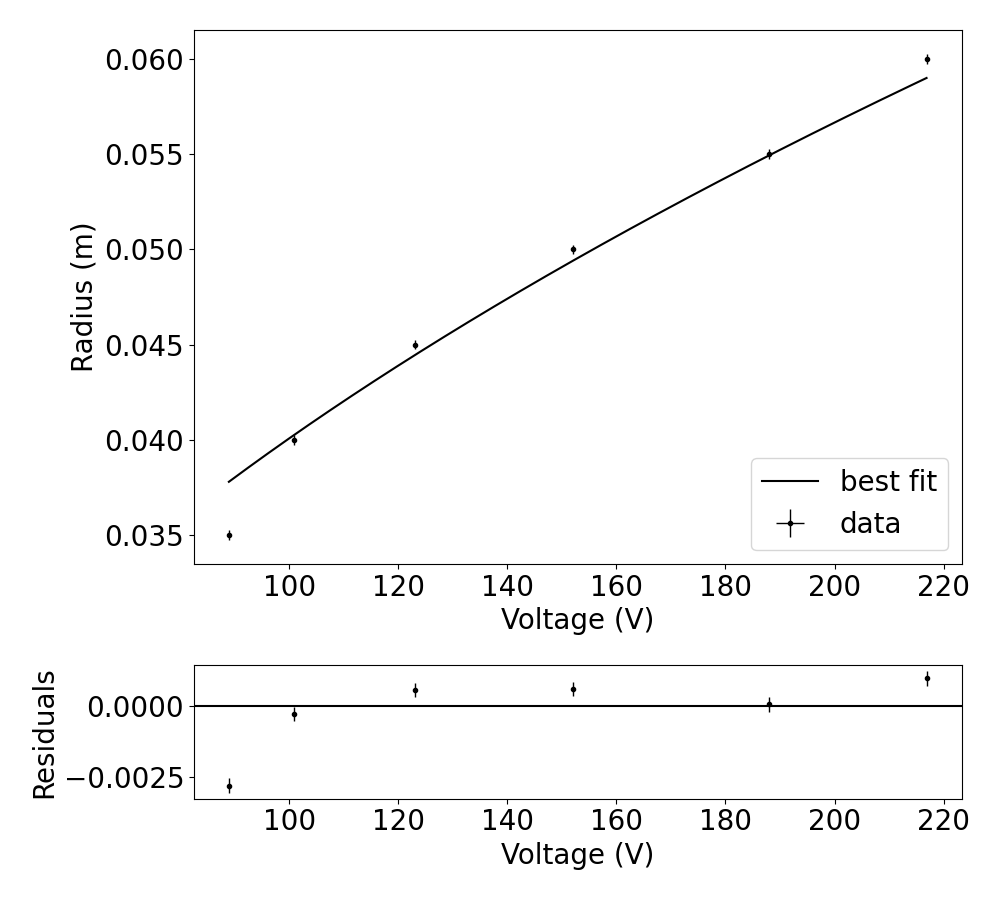
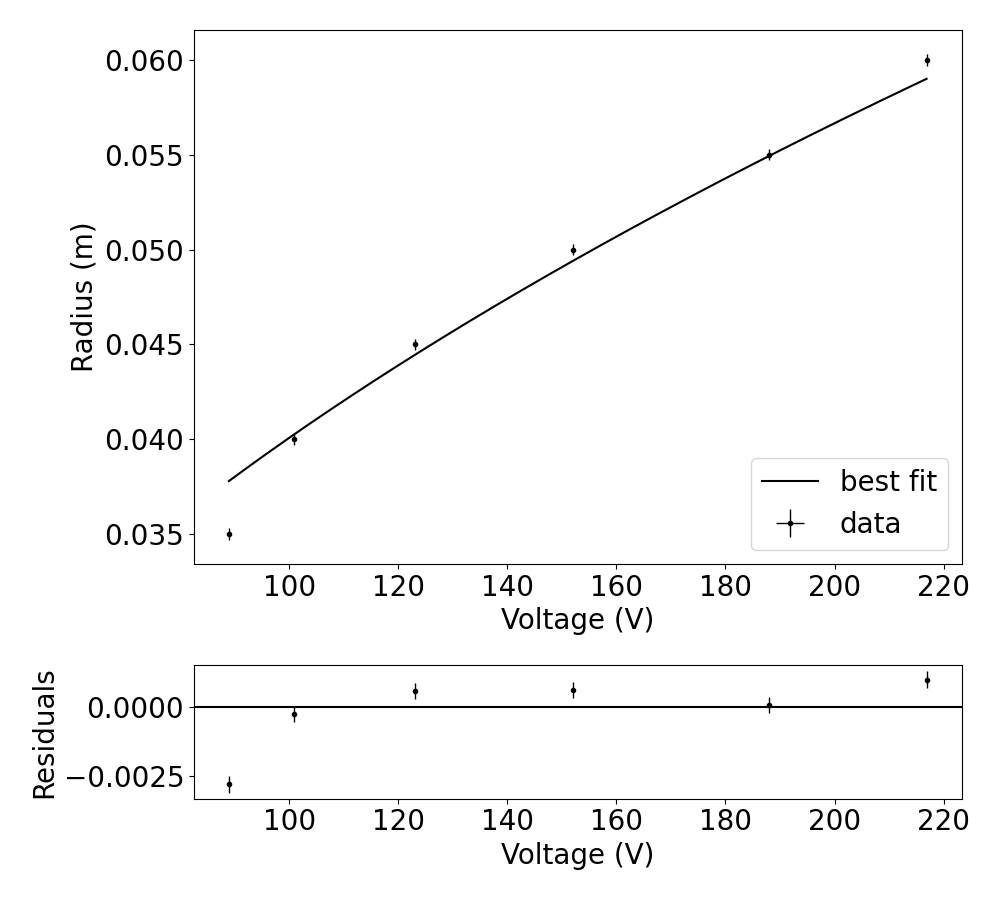
almost there

diff --git a/lab5-charge-to-mass/ratio_calc.py b/lab5-charge-to-mass/ratio_calc.py
@@ -1,37 +1,63 @@
 import math
-
 import tools as tl
 import fit_black_box as bb
 import numpy as np
 
-mue_0 = 4 * math.pi * 10**-7
-R = 0.326/2
-R_err = 0.005/2
+# Constants and measured values
+mue_0 = 4 * math.pi * 10**-7         
+R = 0.326/2                          
+R_err = 0.005/2                      
 n = 130
 
-b_e,b_e_unc = 6.85323006340271*10**-5, 1.2710535253099034*10**-5
+# Field offset values from extra_field analysis
+b_e, b_e_unc = 7.279481489311506e-5, 1.313424340798893e-5 
 k = 1/math.sqrt(2) * (4/5)**(3/2) * mue_0 * n / R
-k_err = tl.error_mult(1/math.sqrt(2), (4/5)**(3/2) * mue_0 * n / R, 0, R_err, k)
+k_err = k * (R_err/R)
+
+# Calculate I_o = b_e/k with standard propagation for a quotient:
+
 I_o = b_e/k
-I_o_err = tl.error_mult(b_e, k, b_e_unc, k_err, I_o)
+I_o_err = I_o * np.sqrt((b_e_unc/b_e)**2 + (k_err/k)**2)
 
-##calculation of constant with fixed current fit
-i = 1.076
-a,a_err = 0.004006761994742138, 4.674028233227996*10**-5
-e_ratio_I = 1/((a*k)*(i+1/math.sqrt(2)*I_o))**2
-e_ratio_I_err = tl.error_mult(i, a*k, 0.001, a_err, e_ratio_I)
+print(f"k = {k:.2e} +/- {k_err:.2e}")
+print(f"I_o relative error: {I_o_err/I_o:.2e}")
 
-print(f"Fixed current fit: {e_ratio_I} +/- {e_ratio_I_err}")
+# ---------------------------
+# Fixed-current fit propagation:
+i = 1.076                
+a, a_err = 0.004006761994742138,  4.674028233227996e-5
 
-##calculation of constant with fixed voltage fit
-v = 186.01
-a_fit,a_fit_unc = 0.004738608386267347, 0.0007849603700117398
-b_fit,b_fit_unc = 0.028217571546591925, 0.015467814817588977
+# Define X = (a*k) * ( i + 1/sqrt2 * I_o )
+term1 = a * k
+term1_rel = np.sqrt((a_err/a)**2 + (k_err/k)**2)
+term2 = i + (1/math.sqrt(2))*I_o
+# Assume i is exact so its uncertainty comes solely from I_o:
+term2_err = (1/math.sqrt(2)) * I_o_err
+term2_rel = term2_err/term2
 
-e_ratio_V = 1/(a_fit*k)**2
-e_ratio_V_err = tl.error_mult(v, a_fit*k, 0.01, a_fit_unc, e_ratio_V)
+X = term1 * term2
+X_rel = np.sqrt(term1_rel**2 + term2_rel**2)
 
-print(f"Fixed voltage fit: {e_ratio_V} +/- {e_ratio_V_err}")
+e_ratio_I = 1/(X**2)
+e_ratio_I_err = 2 * e_ratio_I * X_rel
+
+print(f"Fixed current fit: e/m = {e_ratio_I:.2e} +/- {e_ratio_I_err:.2e}")
+
+# ---------------------------
+# Fixed-voltage fit propagation:
+v = 186.01                            
+a_fit, a_fit_unc = 0.0640095857828037, 0.0016815877487173848
+
+# For fixed-voltage method assume:
+# e_ratio_V = 1/(a_fit * k)^2.
+X_v = a_fit/(math.sqrt(v)) * k
+
+X_v_rel = np.sqrt((a_fit_unc/a_fit)**2 + (k_err/k)**2 + (0.01/v)**2)
+
+e_ratio_V = 1/(X_v**2)
+e_ratio_V_err = 2 * e_ratio_V * X_v_rel
+
+print(f"Fixed voltage fit: e/m = {e_ratio_V:.2e} +/- {e_ratio_V_err:.2e}")
 
 #compare to the accepted value
 accepted = 1.758820024*10**11
@@ -43,18 +69,36 @@ percent_error_V = abs(e_ratio_V - accepted)/accepted
 percent_error_I *= 100
 percent_error_V *= 100
 
-print(f"Percent error for fixed current fit: {percent_error_I}")
-print(f"Percent error for fixed voltage fit: {percent_error_V}")
+print(f"Percent error for fixed current fit: {percent_error_I:.3f}%")
+print(f"Percent error for fixed voltage fit: {percent_error_V:.3f}%")
 
-#avg and std dev
-avg = (e_ratio_I + e_ratio_V)/2
-avg_err = math.sqrt(e_ratio_I_err**2 + e_ratio_V_err**2)/2
 
-print(f"Average: {avg} +/- {avg_err}")
+avg_ratio = (e_ratio_I + e_ratio_V)/2
+avg_ratio_err = np.sqrt(e_ratio_I_err**2 + e_ratio_V_err**2)/2
 
-percent_error_avg = abs(avg - accepted)/accepted
-percent_error_avg *= 100
-print(f"Percent error for average: {percent_error_avg}")
+print(f"Average e/m ratio: {avg_ratio:.4e} +/- {avg_ratio_err:.4e}")
+print(f"Percent error for average: {abs(avg_ratio - accepted)/accepted*100:.3f}%")
+
+
+print("Percent uncertainty for fixed current fit: ", format(e_ratio_I_err/e_ratio_I*100,".2f"))
+print("Percent uncertainty for fixed voltage fit: ", format(e_ratio_V_err/e_ratio_V*100,".2f"))
+print("Percent uncertainty for average: ", format(avg_ratio_err/avg_ratio*100,".2f"))
+
+
+# vizualize the data and unc in comparison to the accepted value
+import matplotlib.pyplot as plt
+
+plt.errorbar([1,2,3],[e_ratio_I, e_ratio_V,avg_ratio], yerr=[e_ratio_I_err, e_ratio_V_err,avg_ratio_err], fmt='o', label="Calculated values")
+plt.axhline(y=accepted, color='r', linestyle='-', label="Accepted value")
+plt.xlabel("Method")
+plt.xticks([1,2,3],["Fixed current", "Fixed voltage", "Average"])
+plt.ylabel("e/m ratio")
+plt.title("e/m ratio calculated using two methods")
+plt.legend()
+
+
+
+plt.show()
 
 
 

diff --git a/lab5-charge-to-mass/fixed_voltage.py b/lab5-charge-to-mass/fixed_voltage.py
@@ -8,14 +8,20 @@ mue_0 = 4 * math.pi * 10**-7
 R = 0.326/2
 v = 186.01
 n = 130
-b_e,b_e_unc = 6.85323006340271*10**-5, 1.2710535253099034*10**-5
+R_err = .5/2000
+b_e, b_e_unc = 7.279481489311506e-5, 1.313424340798893e-5 
 k = 1/math.sqrt(2) * (4/5)**(3/2) * mue_0 * n / R
+k_err = k * (R_err/R)
+
+# Calculate I_o = b_e/k with standard propagation for a quotient:
+
 I_o = b_e/k
+I_o_err = I_o * np.sqrt((b_e_unc/b_e)**2 + (k_err/k)**2)
 
+print("I_o: ", I_o, "+/-", I_o_err) 
 
-
-def inverse(t, a,):
-    return a*math.sqrt(v)/(t+1/math.sqrt(2)*I_o) 
+def inverse(t, a, I_o):
+    return a/(t+1/math.sqrt(2)*I_o) 
 
 i = np.array([1.010,1.081,1.206,1.334,1.499,1.624])
 r = np.array([0.059,0.055,0.05,0.045,0.04,0.037])
@@ -23,17 +29,19 @@ r = np.array([0.059,0.055,0.05,0.045,0.04,0.037])
 v = 186.01
 
 
-inital_guess = [1]
-bb.plot_fit(inverse, i, r, init_guess=inital_guess, font_size=20, xlabel="Current (A)", ylabel="Radius (m)", xerror=[0.001]*6, yerror=[0.0005/2]*6, filename="fixed_current_fit.png")
+inital_guess = [1,I_o]
+fit, unc = bb.plot_fit(inverse, i, r, init_guess=inital_guess, font_size=20, xlabel="Current (A)", ylabel="Radius (m)", xerror=[0.001]*6, yerror=[0.0005]*6, filename="fixed_current_fit.png",bounded=True,bounds=([-np.inf,I_o-I_o_err],[+np.inf,I_o+I_o_err]))
 
-a_fit,a_fit_unc = 0.004738608386267347, 1.8655570064236386 * 10**-5
+a_fit, I_o = fit
+a_fit_err, I_o_err = unc
 
-rmse = tl.rmse(r, inverse(i, a_fit))
+rmse = tl.rmse(r, inverse(i, a_fit, I_o))
 print(f"RMSE: {rmse}")
 
-chi_squared = tl.chi_squared(r, inverse(i, a_fit), 0.0005/2)
+chi_squared = tl.chi_squared(r, inverse(i, a_fit,I_o), 0.0005)
 print(f"Chi squared: {chi_squared}")
 
-reduced_chi_squared = tl.reduced_chi_squared(chi_squared, 1, 6)
+reduced_chi_squared = tl.reduced_chi_squared(chi_squared, 2, 6)
 print(f"Reduced chi squared: {reduced_chi_squared}")
+
 

diff --git a/lab5-charge-to-mass/extra_feild.py b/lab5-charge-to-mass/extra_feild.py
@@ -26,13 +26,34 @@ print(b_c[0],b_c_err[0])
 
 #correct for the non-uniformity of the magnetic field
 b_c = [b*(1-(r**4/(R**4*(0.6583+0.29*(r**2/R**2))**2))) for b,r in zip(b_c,r)]
+# Calculate error propagation for the magnetic field correction
+# Using partial derivatives for the correction factor
+correction_errors = []
+for b, b_err, r_val, r_error in zip(b_c, b_c_err, r, r_err):
+    # Define correction factor terms for clarity
+    r4 = r_val**4
+    R4 = R**4
+    r2_R2 = (r_val**2)/(R**2)
+    denom = (0.6583 + 0.29*r2_R2)**2
+    
+    # Partial derivatives
+    db = (1 - r4/(R4*denom))
+    dr = b*(-4*r_val**3/(R4*denom) + 2*r4*0.29/(R4*denom**2 * R**2))
+    
+    # Combine errors using quadrature
+    total_error = np.sqrt((db*b_err)**2 + (dr*r_error)**2)
+    correction_errors.append(total_error)
 
+b_c_err = correction_errors
+
+  
 inital_guess = [1,1]
 # fit B_c to a linear function of 1/r
-bb.plot_fit(linear, 1/r, b_c, init_guess=inital_guess, font_size=20, xlabel="1/Radius (1/m)", ylabel="B_c (T)", xerror=[0.5/2000]*6,filename="extra_field_fit.png")
+fit, unc = bb.plot_fit(linear, 1/r, b_c, init_guess=inital_guess, font_size=20, xlabel="1/Radius (1/m)", ylabel="B_c (T)", xerror=[0.5/2000]*6,yerror=b_c_err,filename="extra_field_fit.png")
 
-alpha_fit,alpha_fit_unc = 4.545926301134504*10**-5 ,5.814535473517166*10**-7
-b_e,b_e_unc = -6.85323006340271*10**-5, 1.2710535253099034*10**-5
+alpha_fit, b_e = fit
+alpha_err, b_e_err = unc
+
 
 rmse = tl.rmse(b_c, linear(1/r, alpha_fit,b_e))
 print(f"RMSE: {rmse}")

diff --git a/lab5-charge-to-mass/fit_black_box.py b/lab5-charge-to-mass/fit_black_box.py
@@ -28,13 +28,16 @@ def load_data(filename):
 
 
 def plot_fit(my_func, xdata, ydata, xerror=None, yerror=None, init_guess=None, font_size=14,
-             xlabel="Independant Variable (units)", ylabel="Dependent Variable (units)",filename="graph.png"):    
+             xlabel="Independant Variable (units)", ylabel="Dependent Variable (units)",filename="graph.png",bounded=False,bounds=None): 
     plt.rcParams.update({'font.size': font_size})
     plt.rcParams['figure.figsize'] = 10, 9
     # Change the fontsize of the graphs to make it easier to read.
     # Also change the picture size, useful for the save-to-file option.
-               
-    popt, pcov = optimize.curve_fit(my_func, xdata, ydata, sigma=yerror, p0=init_guess)
+    if bounded:
+        popt, pcov = optimize.curve_fit(my_func, xdata, ydata, sigma=yerror, p0=init_guess, bounds=bounds)
+    else:
+        popt, pcov = optimize.curve_fit(my_func, xdata, ydata, sigma=yerror, p0=init_guess)
+
     # The best fit values are popt[], while pcov[] tells us the uncertainties.
 
     puncert = np.sqrt(np.diagonal(pcov))
@@ -100,6 +103,6 @@ def plot_fit(my_func, xdata, ydata, xerror=None, yerror=None, init_guess=None, f
     # every time you run this program, so rename the file if you
     # want to keep multiple files!
 
-    return None
+    return popt, puncert
     
 

diff --git a/lab5-charge-to-mass/fixed_current.py b/lab5-charge-to-mass/fixed_current.py
@@ -22,21 +22,21 @@ v = np.array([216.99, 188,151.99, 122.99,100.97,88.96])
 r = np.array([0.06,0.055,0.05,0.045,0.04,0.035])
 i = 1.076
 v_err = [0.01]*6
-r_err = [0.0005/2]*6
+r_err = [0.0005]*6
 
 
 
 initial_guess = [1]
-bb.plot_fit(fit_function,v,r,v_err,r_err, init_guess=initial_guess, font_size=20, xlabel="Voltage (V)", ylabel="Radius (m)",filename="fixed_voltage_fit.png")
+fit, unc = bb.plot_fit(fit_function,v,r,v_err,r_err, init_guess=initial_guess, font_size=20, xlabel="Voltage (V)", ylabel="Radius (m)",filename="fixed_voltage_fit.png")
 
 
-a_fit = 0.004006761994742138
-a_fit_err = 4.674028233227996 *10**-5
+a_I_fit = fit[0]
+a_I_fit_err = unc[0]
 
-rmse = tl.rmse(r, fit_function(v, a_fit))
+rmse = tl.rmse(r, fit_function(v, a_I_fit))
 print(f"RMSE: {rmse}")
 
-chi_squared = tl.chi_squared(r, fit_function(v, a_fit), 0.0005/2)
+chi_squared = tl.chi_squared(r, fit_function(v, a_I_fit), 0.0005)
 print(f"Chi squared: {chi_squared}")
 
 reduced_chi_squared = tl.reduced_chi_squared(chi_squared, 1, 6)
